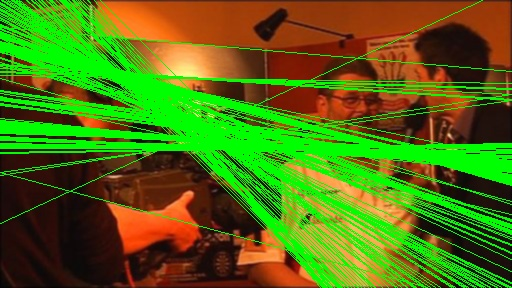
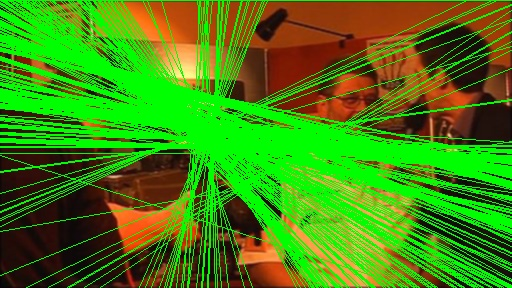
Trying something new

diff --git a/Subtask3/dart.cpp b/Subtask3/dart.cpp
@@ -56,7 +56,7 @@ int main( int argc, const char** argv ) {
 	// 4. Save Result Image
 	string filename = argv[1];
 	string outputname = filename.substr(10, filename.size() - 14);
-	imwrite( "Detected1/"+outputname+".jpg", output );
+	imwrite( "Detected/"+outputname+".jpg", output );
 
 	imwrite( "Lines/"+outputname+".jpg", gradMag );
 
@@ -105,7 +105,7 @@ Mat generateLineHoughSpace(Mat gradMag, Mat gradDir) {
 
 			if (gradMag.at<uchar>(y, x) != 0) {
 
-				for (int deg = 0; deg < 360; deg ++) {
+				for (int deg = 0; deg < 360; deg=deg+2) {
 					int rho = round(x*cos(deg*pi/180) + y*sin(deg*pi/180) + width + height);
 					houghSpace.at<int>(rho, deg)++;
 				}
